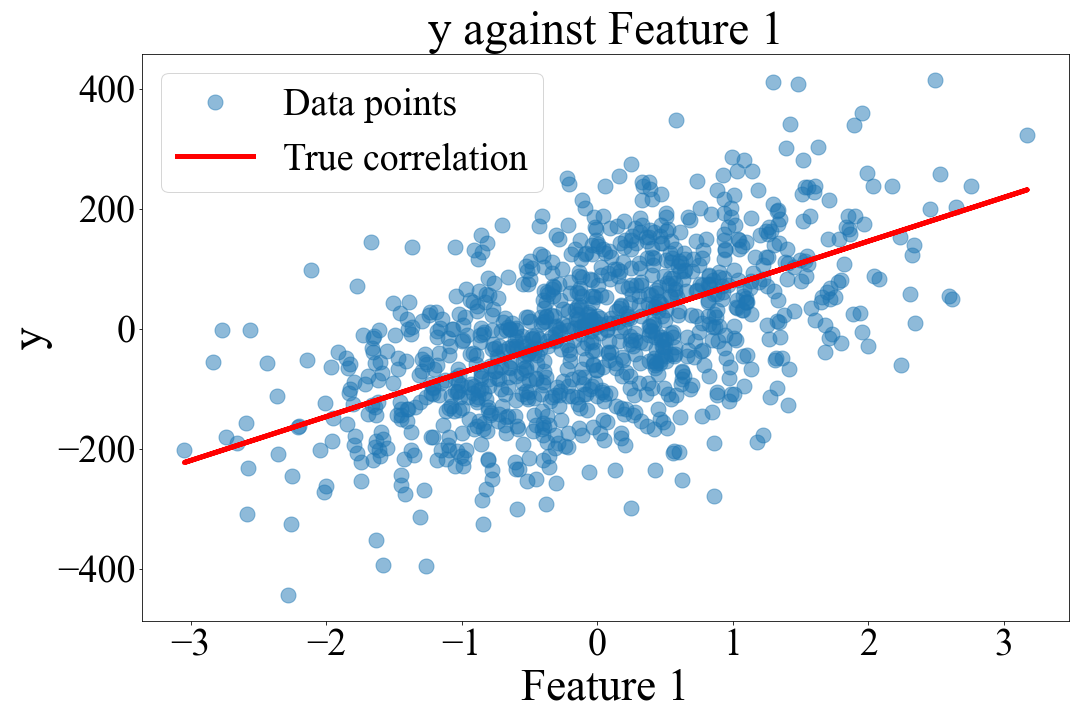
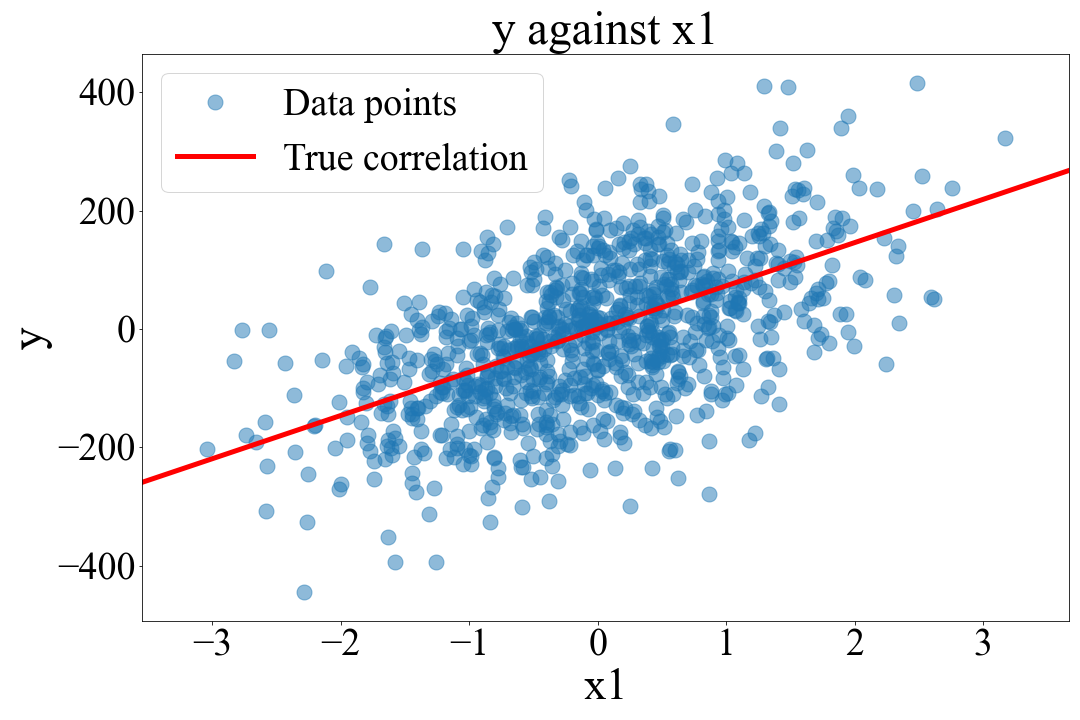
Updated plots for fig 7

diff --git a/SyntheticDataset.py b/SyntheticDataset.py
@@ -32,11 +32,11 @@ noise = 10
 X, y, coef = make_regression(n_samples=n_samples, n_features=n_features, noise=noise, coef=True)
 
 # Create a pandas DataFrame
-df = pd.DataFrame(X, columns=['Feature_1', 'Feature_2', 'Feature_3'])
+df = pd.DataFrame(X, columns=['x1', 'x2', 'x3'])
 df['Target'] = y
 
 # Perform multiple linear regression
-X = df[['Feature_1', 'Feature_2', 'Feature_3']]
+X = df[['x1', 'x2', 'x3']]
 y = df['Target']
 
 # Create and fit the linear regression model
@@ -53,13 +53,23 @@ y_est = model_lm.predict(X)
 # Calculate residuals
 residual = y_est - y
 
-# Settings for data
+# Min and max values for plotting
+min_val_x = min(X['x1'])-0.5
+max_val_x = max(X['x1'])+0.5
+min_val_y = min(y)-50
+max_val_y = max(y)+50
+# x-values and y-values for plotting lines
+x_line = np.linspace(min_val_x, max_val_x, 1000)
+y_line = np.linspace(min_val_y, max_val_y, 1000)
+
+# Font in plots
 plt.rcParams["font.family"] = "Times New Roman"
 
-# True vs. estimated response values
+#%% True vs. estimated response values
+
 plt.figure(figsize=(10,10))
 plt.plot(y, y_est, ".", label='Data points', alpha=0.5, markersize=30)
-plt.plot(y, y, "-", label='Perfect fit', color='r', linewidth=5)
+plt.plot(y_line, y_line, "-", label='Perfect fit', color='r', linewidth=5)
 plt.gca().set_aspect('equal')
 plt.xlabel("True", fontname="Times New Roman", fontsize=45)
 plt.ylabel("Estimated", fontname="Times New Roman", fontsize=45)
@@ -67,49 +77,58 @@ plt.title(f"Estimated against true y values", fontname="Times New Roman", fontsi
 plt.xticks(fontsize=40, family='Times New Roman')
 plt.yticks(fontsize=40, family='Times New Roman')
 plt.legend(fontsize=40)
+plt.xlim(min_val_y, max_val_y)
+plt.ylim(min_val_y, max_val_y)
 plt.tight_layout()
 # Save fig
 out_path = os.path.join(out_dir, 'Synthetic_true_vs_estimated.png')
 plt.savefig(out_path)
 
-# Response against Feature 1 as well as true correlation line
+
+#%% Response against x1 as well as true correlation line
+
 plt.figure(figsize=(15,10))
-plt.plot(X['Feature_1'], y, ".", label='Data points', alpha=0.5, markersize=30)
-plt.plot(X['Feature_1'], X['Feature_1'] * coef[0], color='r', linestyle='-', label='True correlation', linewidth=5) 
-plt.xlabel("Feature 1", fontname="Times New Roman", fontsize=45)
+plt.plot(X['x1'], y, ".", label='Data points', alpha=0.5, markersize=30)
+plt.plot(x_line, x_line * coef[0], color='r', linestyle='-', label='True correlation', linewidth=5) 
+plt.xlabel("x1", fontname="Times New Roman", fontsize=45)
 plt.ylabel("y", fontname="Times New Roman", fontsize=45)
-plt.title(f"y against Feature 1", fontname="Times New Roman", fontsize=47)
+plt.title(f"y against x1", fontname="Times New Roman", fontsize=47)
 plt.legend(fontsize=38)
 plt.xticks(fontsize=38, family='Times New Roman')
 plt.yticks(fontsize=38, family='Times New Roman')
+plt.xlim(min_val_x, max_val_x)
+plt.ylim(min_val_y, max_val_y)
 plt.tight_layout()
 # Save fig
 out_path = os.path.join(out_dir, 'Synthetic_Feature1.png')
 plt.savefig(out_path)
 
-# Response against Feature 2 as well as true correlation line
+#%% Response against x2 as well as true correlation line
+
 plt.figure()
-plt.plot(X['Feature_2'], y, ".", label='Data points', alpha=0.5)
-plt.plot(X['Feature_2'], X['Feature_2'] * coef[1], color='r', linestyle='-', label='True correlation') 
-plt.xlabel("Feature 2", fontname="Times New Roman", fontsize=14)
+plt.plot(X['x2'], y, ".", label='Data points', alpha=0.5)
+plt.plot(X['x2'], X['x2'] * coef[1], color='r', linestyle='-', label='True correlation') 
+plt.xlabel("x2 2", fontname="Times New Roman", fontsize=14)
 plt.ylabel("y", fontname="Times New Roman", fontsize=14)
 plt.legend(fontsize=14)
 plt.xticks(fontsize=12, family='Times New Roman')
 plt.yticks(fontsize=12, family='Times New Roman')
 plt.tight_layout()
 
-# Response against Feature 3 as well as true correlation line
+#%% Response against x3 as well as true correlation line
+
 plt.figure()
-plt.plot(X['Feature_3'], y, ".", label='Data points', alpha=0.5)
-plt.plot(X['Feature_3'], X['Feature_3'] * coef[2], color='r', linestyle='-', label='True correlation') 
-plt.xlabel("Feature 3", fontname="Times New Roman", fontsize=14)
+plt.plot(X['x3'], y, ".", label='Data points', alpha=0.5)
+plt.plot(X['x3'], X['x3'] * coef[2], color='r', linestyle='-', label='True correlation') 
+plt.xlabel("x3 3", fontname="Times New Roman", fontsize=14)
 plt.ylabel("y", fontname="Times New Roman", fontsize=14)
 plt.legend(fontsize=14)
 plt.xticks(fontsize=12, family='Times New Roman')
 plt.yticks(fontsize=12, family='Times New Roman')
 plt.tight_layout()
 
-# Histogram of residuals
+#%% Histogram of residuals
+
 plt.figure(figsize=(12,10))
 plt.hist(residual, bins=30)
 plt.title(f"Histogram of the residuals", fontname="Times New Roman", fontsize=47)
